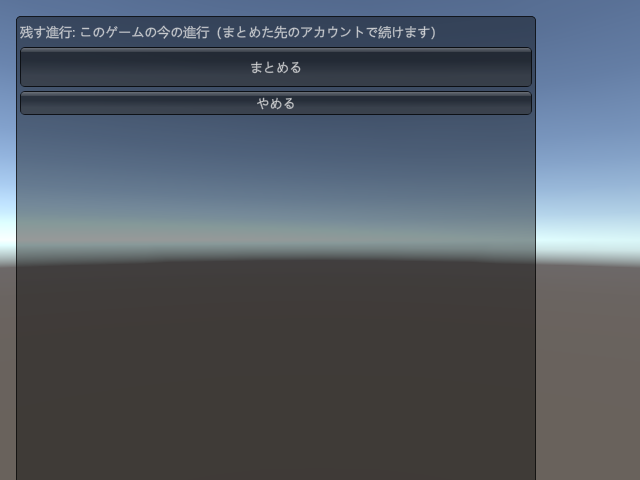
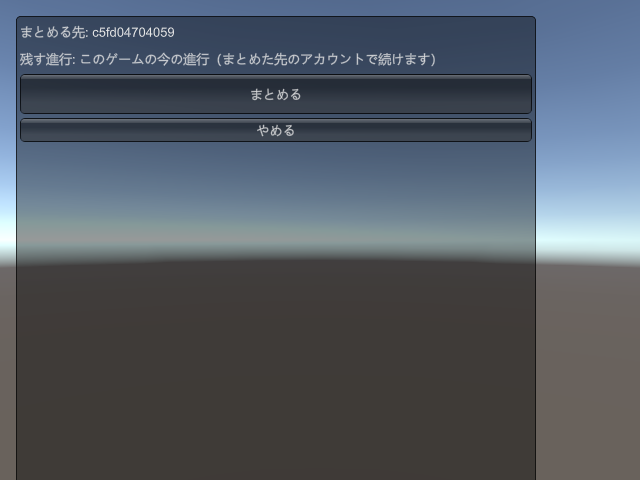
fix(game-sdk): 2 回目の監査の指摘に対応する (#1998 AC-3)
- 確定の後でも解除した B の記録は付け直さない（B が別の端末で外したものを上書きしない）
- 飛ばすか書き直すかの判定を desktop-runtime の単体試験で確かめる
- まとめた後も持ち主から見て A の参加資格が残ることを確かめる
- sample: 失敗の応答で確定済みなら start_game_player で切替と付け直しを続ける
- 確認の画面にまとめる先の公開鍵が出る証跡に差し替える

Changed region(s): [[0.0312, 0.0312, 0.8438, 0.3125]]

diff --git a/crates/desktop-runtime/src/runtime/social_copy.rs b/crates/desktop-runtime/src/runtime/social_copy.rs
@@ -88,9 +88,10 @@ impl DesktopRuntime {
     }
 
     /// `after` の次の 1 page を付け直し、最後に読んだ相手を返す（読む相手が無ければ `None`）。相手が自分、解除済み、
-    /// 公開鍵の形が不正、または `since_ms`（まとめの確定）より前に自分が同じ相手へ付けた記録がある行は飛ばす。フォロー・
-    /// ブロックは解除済みの記録も数え、ミュートは解除で行が消えるので今ミュートしているときだけ数える。確定の後の記録は、
-    /// 止まる前に途中まで書いた付け直しなので書き直す。付け直しの失敗はそのまま返す。
+    /// 公開鍵の形が不正、または自分が同じ相手へ付けた記録が `since_ms`（まとめの確定）より前にあるか、確定の後でも
+    /// 有効でない（解除した）行は飛ばす。ミュートは解除で行が消えるので、今ミュートしているときだけ数える。確定の後の
+    /// 有効な記録は、止まる前に途中まで書いた付け直しかもしれないので書き直す（同じ状態の記録が増えるだけ）。付け直しの
+    /// 失敗はそのまま返す。
     pub async fn copy_social_page(
         &self,
         source: &SocialCopySource,
@@ -106,9 +107,9 @@ impl DesktopRuntime {
                 || !valid
                 || *target == me
                 || self
-                    .recorded_at(kind, &me, target)
+                    .recorded(kind, &me, target)
                     .await?
-                    .is_some_and(|at| at < since_ms)
+                    .is_some_and(|(at, active)| at < since_ms || !active)
             {
                 continue;
             }
@@ -124,29 +125,29 @@ impl DesktopRuntime {
         Ok(rows.into_iter().last().map(|(target, _)| target))
     }
 
-    /// 自分が同じ相手へ付けた記録の時刻（ミリ秒）。
-    async fn recorded_at(
+    /// 自分が同じ相手へ付けた記録の時刻（ミリ秒）と、有効か。
+    async fn recorded(
         &self,
         kind: SocialCopyKind,
         me: &str,
         target: &str,
-    ) -> Result<Option<i64>> {
+    ) -> Result<Option<(i64, bool)>> {
         Ok(match kind {
             SocialCopyKind::Follows => self
                 .store
                 .get_follow_edge(me, target)
                 .await?
-                .map(|edge| edge.updated_at),
+                .map(|edge| (edge.updated_at, edge.status == FollowEdgeStatus::Active)),
             SocialCopyKind::Blocks => self
                 .store
                 .get_block_edge(me, target)
                 .await?
-                .map(|edge| edge.updated_at),
+                .map(|edge| (edge.updated_at, edge.status == BlockEdgeStatus::Active)),
             SocialCopyKind::Mutes => self
                 .store
                 .get_muted_author(target)
                 .await?
-                .map(|row| row.muted_at),
+                .map(|row| (row.muted_at, true)),
         })
     }
 }

diff --git a/crates/desktop-runtime/src/tests/social_copy.rs b/crates/desktop-runtime/src/tests/social_copy.rs
@@ -1,0 +1,53 @@
+//! #1998 AC-3: まとめの付け直しが、B の記録を飛ばすか書き直すか（ADR 0070 §4.2）。
+
+use super::*;
+use crate::runtime::{SocialCopyKind, SocialCopySource};
+
[1 lines of base64/hex data omitted]
+
+fn request() -> AuthorRequest {
+    AuthorRequest {
+        pubkey: TARGET.to_owned(),
+    }
+}
+
+#[tokio::test]
+async fn the_copy_rewrites_only_active_records_made_after_the_merge() -> Result<()> {
+    let dir = tempdir()?;
+    let a = DesktopRuntime::new(dir.path().join("a.db")).await?;
+    a.follow_author(request()).await?;
+    let a_key = a.local_author_pubkey();
+    a.shutdown().await;
+    let source = SocialCopySource::open(&dir.path().join("a.db"), &a_key).await?;
+    let b = DesktopRuntime::new(dir.path().join("b.db")).await?;
+    let me = b.local_author_pubkey();
+    let edge = || async {
+        b.store
+            .get_follow_edge(&me, TARGET)
+            .await
+            .unwrap()
+            .expect("the follow of B")
+    };
+    let page = |since: i64| b.copy_social_page(&source, SocialCopyKind::Follows, None, since);
+
+    // 確定より前に B が付けた記録は、そのまま残す。
+    b.follow_author(request()).await?;
+    let before = edge().await;
+    sleep(Duration::from_millis(5)).await;
+    assert_eq!(page(before.updated_at + 1).await?.as_deref(), Some(TARGET));
+    assert_eq!(edge().await.envelope_id, before.envelope_id);
+
+    // 確定より後の有効な記録は、途中まで書いた付け直しとして書き直す。
+    page(before.updated_at).await?;
+    let rewritten = edge().await;
+    assert_ne!(rewritten.envelope_id, before.envelope_id);
+
+    // 確定より後に外した記録は、付け直さない。
+    sleep(Duration::from_millis(5)).await;
+    b.unfollow_author(request()).await?;
+    let revoked = edge().await;
+    page(0).await?;
+    assert_eq!(edge().await.envelope_id, revoked.envelope_id);
+    b.shutdown().await;
+    Ok(())
+}

diff --git a/crates/game-sdk/tests/account_transfer.rs b/crates/game-sdk/tests/account_transfer.rs
@@ -516,6 +516,22 @@ fn author(handle: *mut KukuriHandle, object_id: &Value) -> Value {
     }
 }
 
+/// 持ち主から見た、private channel の今の epoch の参加者の数（持ち主を含む）。
+fn participants(owner: *mut KukuriHandle, channel: &str) -> u64 {
+    call(
+        owner,
+        &id("joined"),
+        "list_joined_private_channels",
+        json!({"topic": TOPIC}),
+    )["items"]
+        .as_array()
+        .unwrap()
+        .iter()
+        .find(|item| item["channel_id"] == channel)
+        .and_then(|item| item["participant_count"].as_u64())
+        .unwrap_or(0)
+}
+
 fn merge(handle: *mut KukuriHandle, payload: Value) -> Value {
     let request_id = id("merge");
     assert_eq!(
@@ -674,6 +690,13 @@ fn the_game_account_is_merged_into_an_existing_account_and_its_relations_follow(
     let channels = joined(game);
     assert!(!channels.contains(&others), "{channels:?}");
     assert!(channels.contains(&owned), "{channels:?}");
+    // A の参加資格は残る（持ち主から見て、持ち主と A の 2 人のまま）。新しい招待を出すと epoch が変わり、以後は
+    // その epoch に入った人を数える。
+    let deadline = Instant::now() + Duration::from_secs(60);
+    while participants(other, &others) != 2 {
+        assert!(Instant::now() < deadline, "A is no longer a participant");
+        std::thread::sleep(Duration::from_millis(100));
+    }
     let again = secret_output(
         other,
         &id("invite"),

diff --git a/sdk/unity/com.kukuri.gamesdk/Samples~/Minimal/MinimalSample.cs b/sdk/unity/com.kukuri.gamesdk/Samples~/Minimal/MinimalSample.cs
@@ -191,8 +191,9 @@ public sealed class MinimalSample : MonoBehaviour
         var merged = await runner.Client.SendAsync("merge_game_player", request);
         if (!merged.Ok)
         {
-            // 失敗の応答でも、結び付きを書き換えた後なら確定は済んでいる。今の結び付きを読み直して表示を合わせる。
-            var current = await runner.Client.SendAsync("get_game_player", ThisGame);
+            // 失敗の応答でも、結び付きを書き換えた後なら確定は済んでいる。開始し直すと、結び付いたアカウントへ切り替え、
+            // 付け直しを続ける（確定の前なら今のアカウントのまま同じものを返す）。
+            var current = await runner.Client.SendAsync("start_game_player", ThisGame);
             if (current.Ok && current.Data is JObject player && (string)player["public_key"] != PublicKey)
             {
                 message = "まとめました。以後はまとめた先のアカウントで投稿・参加します";

diff --git a/crates/desktop-runtime/src/tests/mod.rs b/crates/desktop-runtime/src/tests/mod.rs
@@ -76,6 +76,8 @@ mod reloadable_docs_sync;
 mod replication_heuristics;
 mod runtime_events;
 mod seeded_dht;
+#[cfg(not(target_family = "wasm"))]
+mod social_copy;
 mod static_peer;
 
 mod account_logout;

diff --git a/docs/adr/0070-unity-game-sdk.md b/docs/adr/0070-unity-game-sdk.md
@@ -324,7 +324,7 @@ SDK はセーブを持たず、何も消さない。ゲームが B の進行の 
 
 - B の移行で受けた必須 bundle の反映（ADR 0062 §5）が終わってから始める（B の DB の隣の移行の置き場が無くなったことで判定する）。B が持っていたフォロー・ブロックが store に入る前に付け直すと、重複した記録ができ、B が解除していた相手を上書きするためである。
 - A の手元の DB を読取り専用の接続で開き、フォロー・ブロック・ミュートのそれぞれを、相手の公開鍵の順に 64 件ずつ読む。フォロー・ブロックは主キー `(subject_pubkey, target_pubkey)`、ミュートは主キー `author_pubkey` で、続きの位置から読める。ミュートの続きの位置の照会は新しく作る。
-- 相手が B 自身の行は飛ばす。確定より前に B が同じ相手へ付けたフォロー・ブロック（解除済みを含む）か、今のミュートがあれば付け直さない（ミュートは解除で記録が消えるので、解除済みは数えられない）。確定より後の記録は、止まる前に途中まで書いた付け直し（手元にだけ書いて、公開と本人の端末どうしの同期の前に止まったもの）なので、次の起動で書き直す。1 行の付け直しを core が拒否したとき（相手の公開鍵が不正など、やり直しても同じ結果になるもの）は、その行を飛ばして次へ進む（同じ行で止まり続けない）。それ以外の失敗（runtime の停止・切替の途中、書込みの失敗など）では位置を進めずに止め、次の起動で同じ行から進める。
+- 相手が B 自身の行は飛ばす。確定より前に B が同じ相手へ付けたフォロー・ブロック（解除済みを含む）か、今のミュートがあれば付け直さない（ミュートは解除で記録が消えるので、解除済みは数えられない）。確定より後でも解除した記録（B が別の端末で外したものを含む）は付け直さない。確定より後の有効な記録は、止まる前に途中まで書いた付け直し（手元にだけ書いて、公開と本人の端末どうしの同期の前に止まったもの）かもしれないので、次の起動で書き直す（同じ状態の記録が増えるだけ）。1 行の付け直しを core が拒否したとき（相手の公開鍵が不正など、やり直しても同じ結果になるもの）は、その行を飛ばして次へ進む（同じ行で止まり続けない）。それ以外の失敗（runtime の停止・切替の途中、書込みの失敗など）では位置を進めずに止め、次の起動で同じ行から進める。
 - 進んだ位置を付け直しの file に保存し、再起動で続きから進める。全部終えたら付け直しの file を消す。
 - 付け直しの task は profile ごとに 1 つで、動いている間は新しく始めない（`start_game_player` を繰り返し呼んでも 2 つ目を作らない）。
 - 確定の応答と開始を、A のフォロー等の件数に比例して待たせない。
